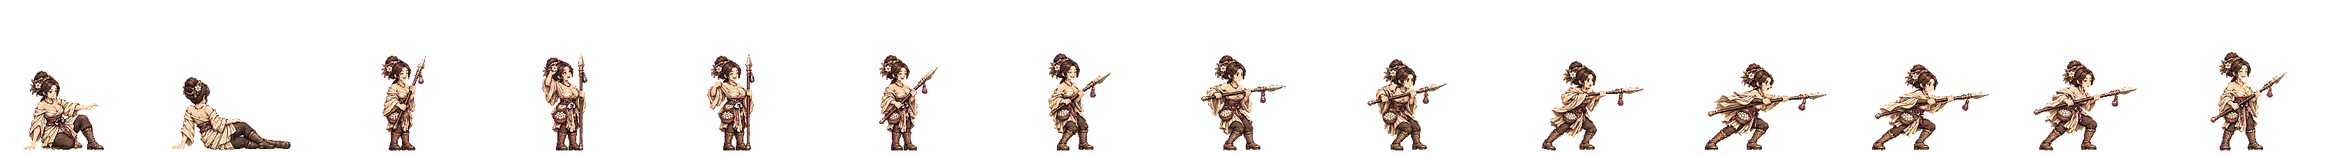
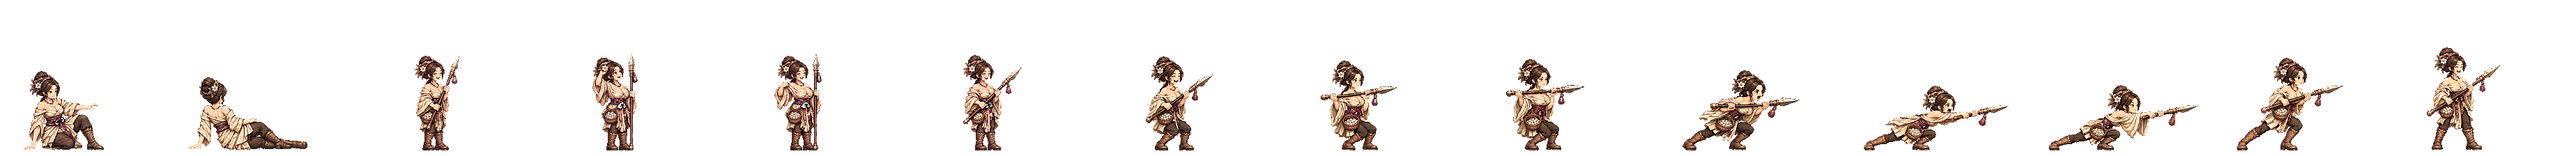
조문 오디 창 찌르기를 새 인형으로 다시 · 걷기는 받은 그림 그대로
T17 · T18 을 받아 HEROES 에 src='thrust2', actw=264. 두 팔을 곧게 뻗은 찌름 · 앞발 여덟 칸 같은 자리(113~114) · 흘러내린 저고리 그대로. 끝 칸 키 148 로 서기 138 보다 조금 크다. 띠 검사 합격(경고 없음).

Claude-Session: https://claude.ai/code/session_01TRiuN7s6aDfSnaHxrkctmU

diff --git a/tools/sprite-kit/anim-harness.py b/tools/sprite-kit/anim-harness.py
@@ -60,7 +60,7 @@ HEROES = {
     'beol': dict(strip='gen-base-w-72-eumjeup-beol', atk='slash', atk8=True, act=True, legacy=(('a', 1), ('a', 3), ('b', 2), ('b', 4))),   # 음즙 벌(한 손 칼 · 우람한 뼈대) · 좁은 칸은 아라처럼 덜 뻗은 칸
     'tneoul': dict(strip='gen-tneoul', atk='thrust', atk8=True, act=True, legacy=(('a', 2), ('a', 3), ('b', 3), ('b', 4)), lock='face'),   # 탐라 너울(두 손 나무 노 · 가슴 L) · 머리 상자 묶기는 b-2 에서 얼굴 자리를 잘못 잡아 머리가 둘이 됐다(11-24) → 얼굴 안쪽만
     'baetsa': dict(strip='gen-base-w-76-gampyeong-baetsagong', atk='thrust', atk8=True, act=True, legacy=(('a', 2), ('a', 3), ('b', 3), ('b', 4))),   # 감평 뱃사공(두 손 나무 노 · 가슴 XL)
-    'odi': dict(strip='gen-odi', atk='thrust', atk8=True, act=True, legacy=(('a', 2), ('a', 3), ('b', 3), ('b', 4))),   # 조문 오디(창 · 가슴 XL)
+    'odi': dict(strip='gen-odi', atk='thrust', src='thrust2', actw=264, atk8=True, act=True, legacy=(('a', 2), ('a', 3), ('b', 3), ('b', 4))),   # 조문 오디(창 · 가슴 XL)
     'deulme': dict(strip='gen-base-w-34-chopal-deulme', atk='thrust', src='thrust2', actw=264, atk8=True, act=True, legacy=(('a', 2), ('a', 3), ('b', 3), ('b', 4))),   # 초팔 들메(창 · 우람한 뼈대 · 가슴 L)
     'dana': dict(strip='gen-base-w-102-garak-dana', atk='bow', atk8=False),   # 가락 다나(활 · 가슴 XL)
     'maena': dict(strip='gen-base-w-36-baekje-maena', atk='bow', atk8=False),   # 백제 매나(활 · 가슴 L)
